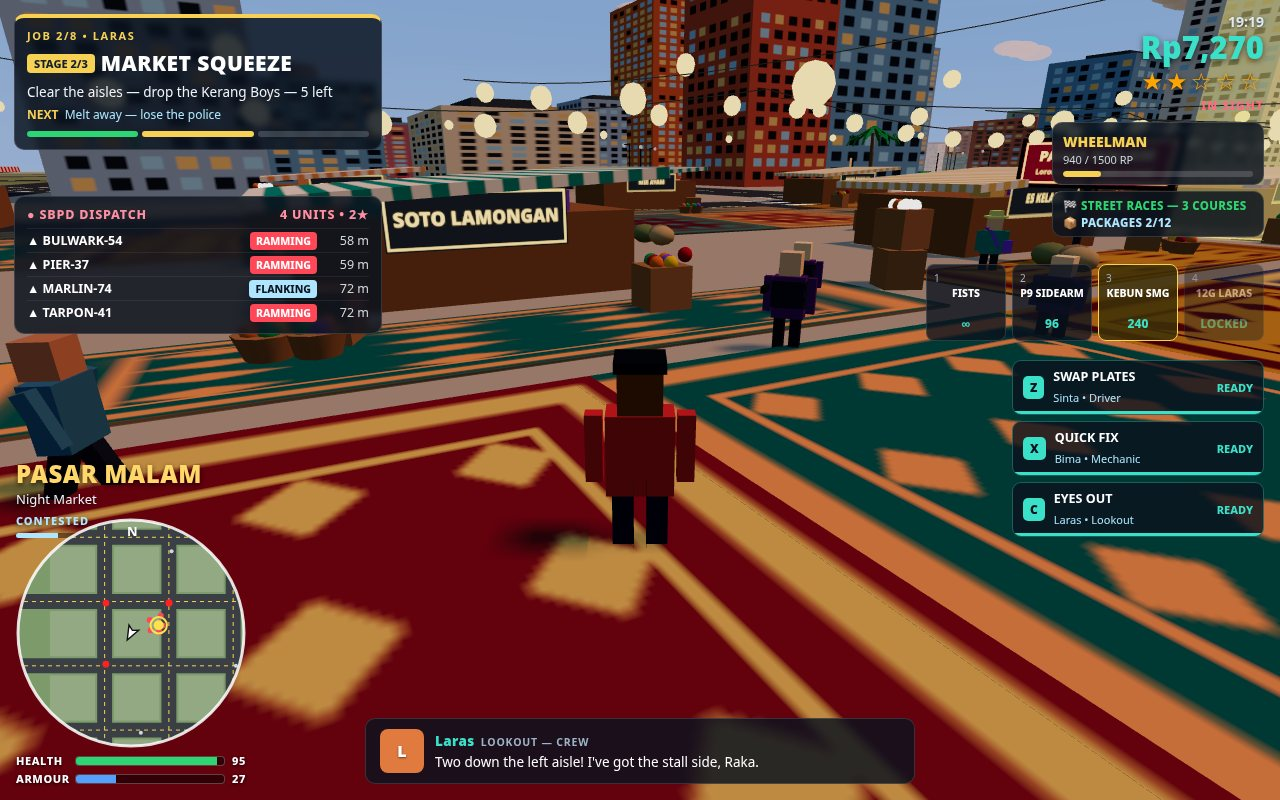
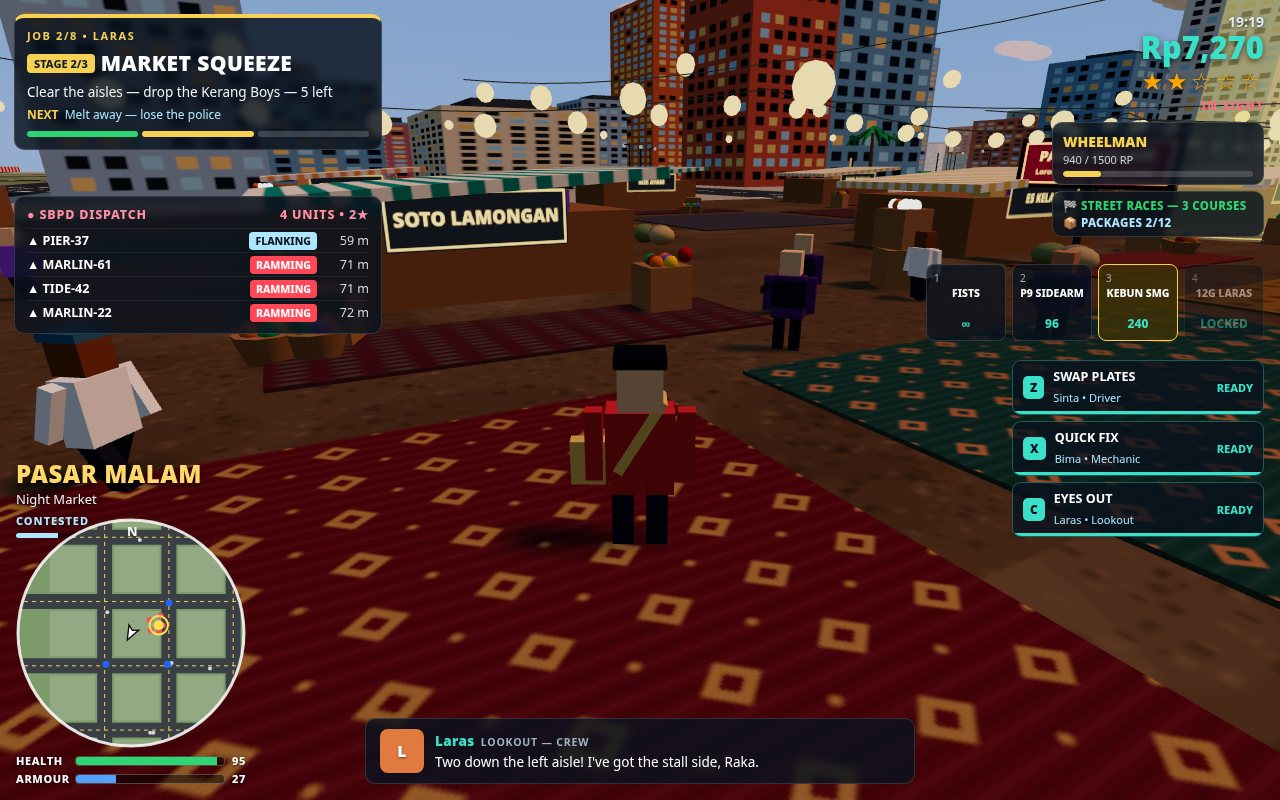
Senja Bay Heat v3 market floor correction: small muted mat pattern, partial coverage, textured earth

diff --git a/game/src/city.js b/game/src/city.js
@@ -81,22 +81,65 @@ function stripeTexture(a, b) {
 }
 
 function matTexture(base, accent) {
-  // A woven market mat: coloured field, border bands and a diamond
-  // lattice, so a flat rug reads as patterned cloth from the air.
+  // A woven market mat, drawn as a seamless tile: a fine weave and a
+  // small diamond lattice with dots at the crossings. The material
+  // repeats the tile 3x3 over each mat, so the motif stays at woven-
+  // cloth scale — no border band, nothing that fights the tiling.
   const c = document.createElement("canvas"); c.width = 128; c.height = 128;
   const g = c.getContext("2d");
   g.fillStyle = base; g.fillRect(0, 0, 128, 128);
-  g.strokeStyle = accent; g.lineWidth = 7; g.strokeRect(7, 7, 114, 114);
-  g.lineWidth = 2; g.strokeRect(19, 19, 90, 90);
-  g.fillStyle = accent;
+  // Weave: faint alternating threads across the field.
+  for (let y = 0; y < 128; y += 4) {
+    g.fillStyle = (y / 4) % 2 ? "rgba(0,0,0,0.055)" : "rgba(255,255,255,0.045)";
+    g.fillRect(0, y, 128, 2);
+  }
+  // Diamond lattice, 4x4 to the tile, each diamond a ring of accent.
   for (let y = 0; y < 4; y++) for (let x = 0; x < 4; x++) {
-    const cx = 27 + x * 25, cy = 27 + y * 25;
+    const cx = 16 + x * 32, cy = 16 + y * 32;
+    g.fillStyle = accent;
     g.beginPath();
-    g.moveTo(cx, cy - 7); g.lineTo(cx + 7, cy); g.lineTo(cx, cy + 7); g.lineTo(cx - 7, cy);
+    g.moveTo(cx, cy - 8); g.lineTo(cx + 8, cy); g.lineTo(cx, cy + 8); g.lineTo(cx - 8, cy);
     g.fill();
+    g.fillStyle = base;
+    g.beginPath();
+    g.moveTo(cx, cy - 3.4); g.lineTo(cx + 3.4, cy); g.lineTo(cx, cy + 3.4); g.lineTo(cx - 3.4, cy);
+    g.fill();
+  }
+  // Dots where the lattice crossings fall, edges included so it tiles.
+  g.fillStyle = accent;
+  for (let y = 0; y <= 4; y++) for (let x = 0; x <= 4; x++) {
+    g.beginPath(); g.arc(x * 32, y * 32, 1.7, 0, 6.3); g.fill();
   }
   const t = new THREE.CanvasTexture(c);
   t.colorSpace = THREE.SRGBColorSpace;
+  t.wrapS = THREE.RepeatWrapping; t.wrapT = THREE.RepeatWrapping;
+  t.repeat.set(3, 3);
+  return t;
+}
+
+function earthTexture() {
+  // Packed market earth: a dark warm brown with soft blotches and a
+  // faint pebble speckle, so the bare ground between the mats has
+  // grain instead of reading as one flat colour.
+  const c = document.createElement("canvas"); c.width = 256; c.height = 256;
+  const g = c.getContext("2d");
+  const rnd = mulberry(20261122);
+  g.fillStyle = "#6b563e"; g.fillRect(0, 0, 256, 256);
+  for (let i = 0; i < 26; i++) {
+    g.fillStyle = rnd() < 0.5 ? "rgba(0,0,0,0.05)" : "rgba(255,235,200,0.04)";
+    g.beginPath();
+    g.ellipse(rnd() * 256, rnd() * 256, 14 + rnd() * 30, 10 + rnd() * 22, rnd() * 3.2, 0, 6.3);
+    g.fill();
+  }
+  for (let i = 0; i < 2600; i++) {
+    const v = rnd();
+    g.fillStyle = v < 0.45 ? "rgba(40,30,18,0.20)" : v < 0.8 ? "rgba(146,124,92,0.20)" : "rgba(190,168,128,0.16)";
+    g.fillRect(rnd() * 256, rnd() * 256, 1 + rnd() * 2.2, 1 + rnd() * 2.2);
+  }
+  const t = new THREE.CanvasTexture(c);
+  t.colorSpace = THREE.SRGBColorSpace;
+  t.wrapS = THREE.RepeatWrapping; t.wrapT = THREE.RepeatWrapping;
+  t.repeat.set(9, 7);
   return t;
 }
 
@@ -449,31 +492,42 @@ export class City {
   }
 
   buildMarketDressing() {
-    // Ground dressing for Pasar Malam: patterned mats under the stall
-    // rows and down the aisles, goods piled at the stall fronts, low
+    // Ground dressing for Pasar Malam: a speckled packed-earth patch
+    // under the whole precinct, woven mats laid over about half of it
+    // — segmented runners down the aisles, a strip at each stall front,
+    // honest earth in the gaps — goods piled at the stall fronts, low
     // string lights sagging over the main aisle and standing boards at
     // its entrances. Everything sits at the aisle edges — the walkways
     // stay clear — and nothing here adds a collider, the same rule as
     // the port's scattered barrels and crates. A private seed keeps the
     // shared rnd sequence (and every other district) untouched.
     const rnd = mulberry(20261118);
-    // -- mats: two-tone patterned rugs in batik colours --
-    const matCols = [["#8e2f32", "#e9c46a"], ["#1f6f6b", "#f4a261"], ["#c9962e", "#6e1423"],
-      ["#35477d", "#e9c46a"], ["#6e2434", "#2a9d8f"]];
+    // -- the market earth: dark, grainy, deliberately quiet, so the
+    // mats read as rugs laid on a market floor, not a carpet --
+    const earth = new THREE.Mesh(new THREE.PlaneGeometry(144, 104),
+      new THREE.MeshLambertMaterial({ map: earthTexture() }));
+    earth.rotation.x = -Math.PI / 2;
+    earth.position.set(-206, 0.115, 136);
+    earth.receiveShadow = true;
+    this.scene.add(earth);
+    // -- mats: small-pattern woven rugs in muted batik colours --
+    const matCols = [["#71292b", "#b08d4f"], ["#2b534e", "#b57e52"], ["#8f6b2d", "#5f1d24"],
+      ["#3a4358", "#a8894a"], ["#5d2731", "#55806f"]];
     const matMats = matCols.map(([a, b]) => new THREE.MeshLambertMaterial({ map: matTexture(a, b) }));
     const mat = (x, z, w, d, ci) => {
       const m = new THREE.Mesh(new THREE.BoxGeometry(w, 0.07, d), matMats[ci % matMats.length]);
       m.position.set(x, 0.145, z); m.receiveShadow = true;
       this.scene.add(m);
     };
-    // Runner mats down the centre of every aisle between the stall rows.
+    // Segmented runners down the centre of every aisle, each rug
+    // separated from the next by a gap of bare earth.
     let ci = 0;
     for (const az of [109, 143, 177]) {
-      for (let x = -272; x <= -140; x += 11) { mat(x, az, 11.4, 13, ci++); }
+      for (let x = -264.5; x <= -142; x += 14.5) { mat(x, az, 12.6, 11, ci++); }
     }
-    // Strips along the stall fronts, where the sellers stand.
+    // A strip at each stall front, where the sellers stand.
     for (const fz of [99.5, 133, 153.5, 167]) {
-      for (let x = -268; x <= -148; x += 24) { mat(x, fz, 21, 4.6, ci++); }
+      for (let x = -268; x <= -148; x += 24) { mat(x, fz, 10.5, 3.4, ci++); }
     }
     // -- scattered goods at the stall fronts and aisle edges --
     const woodMat = new THREE.MeshLambertMaterial({ color: 0xa97c50 });
